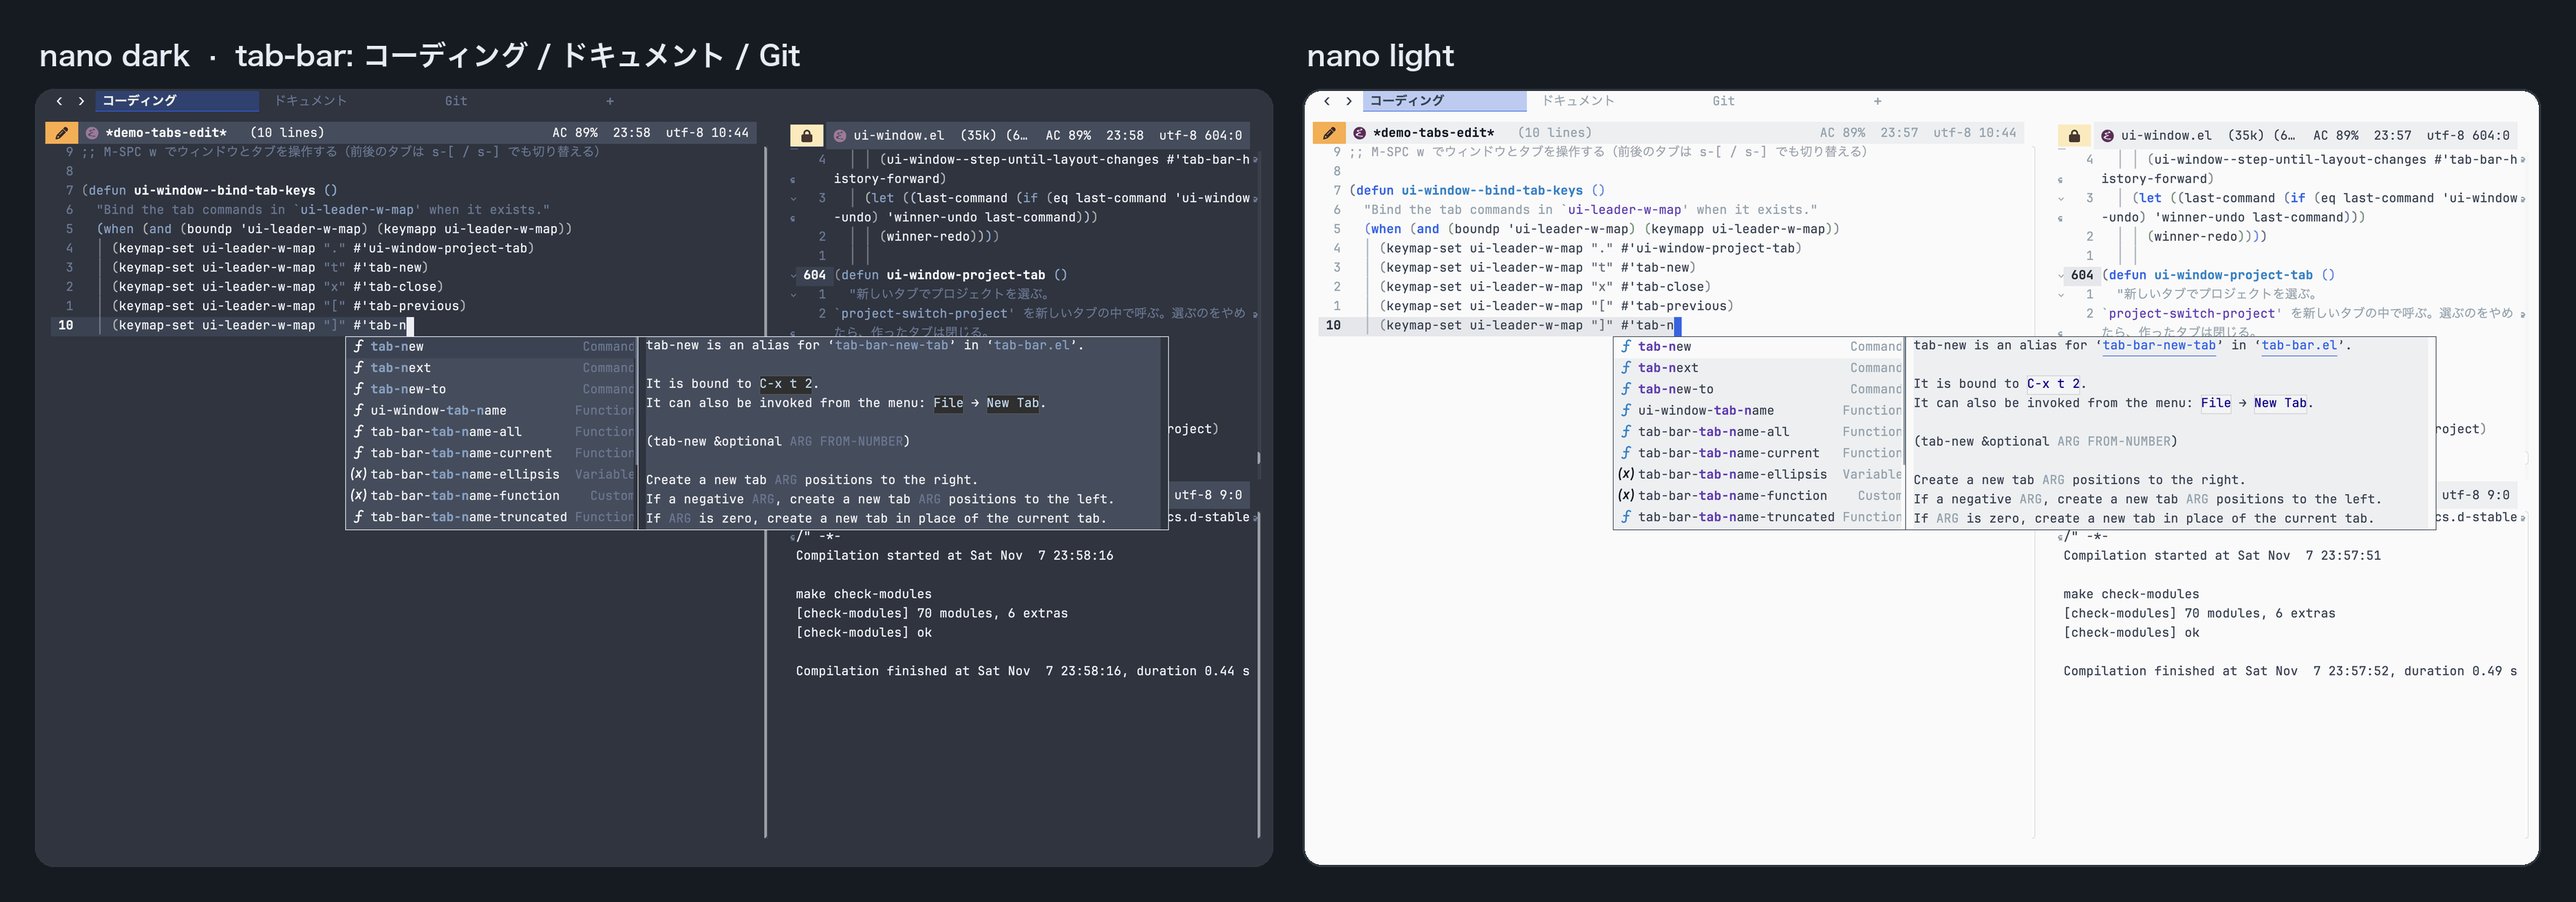
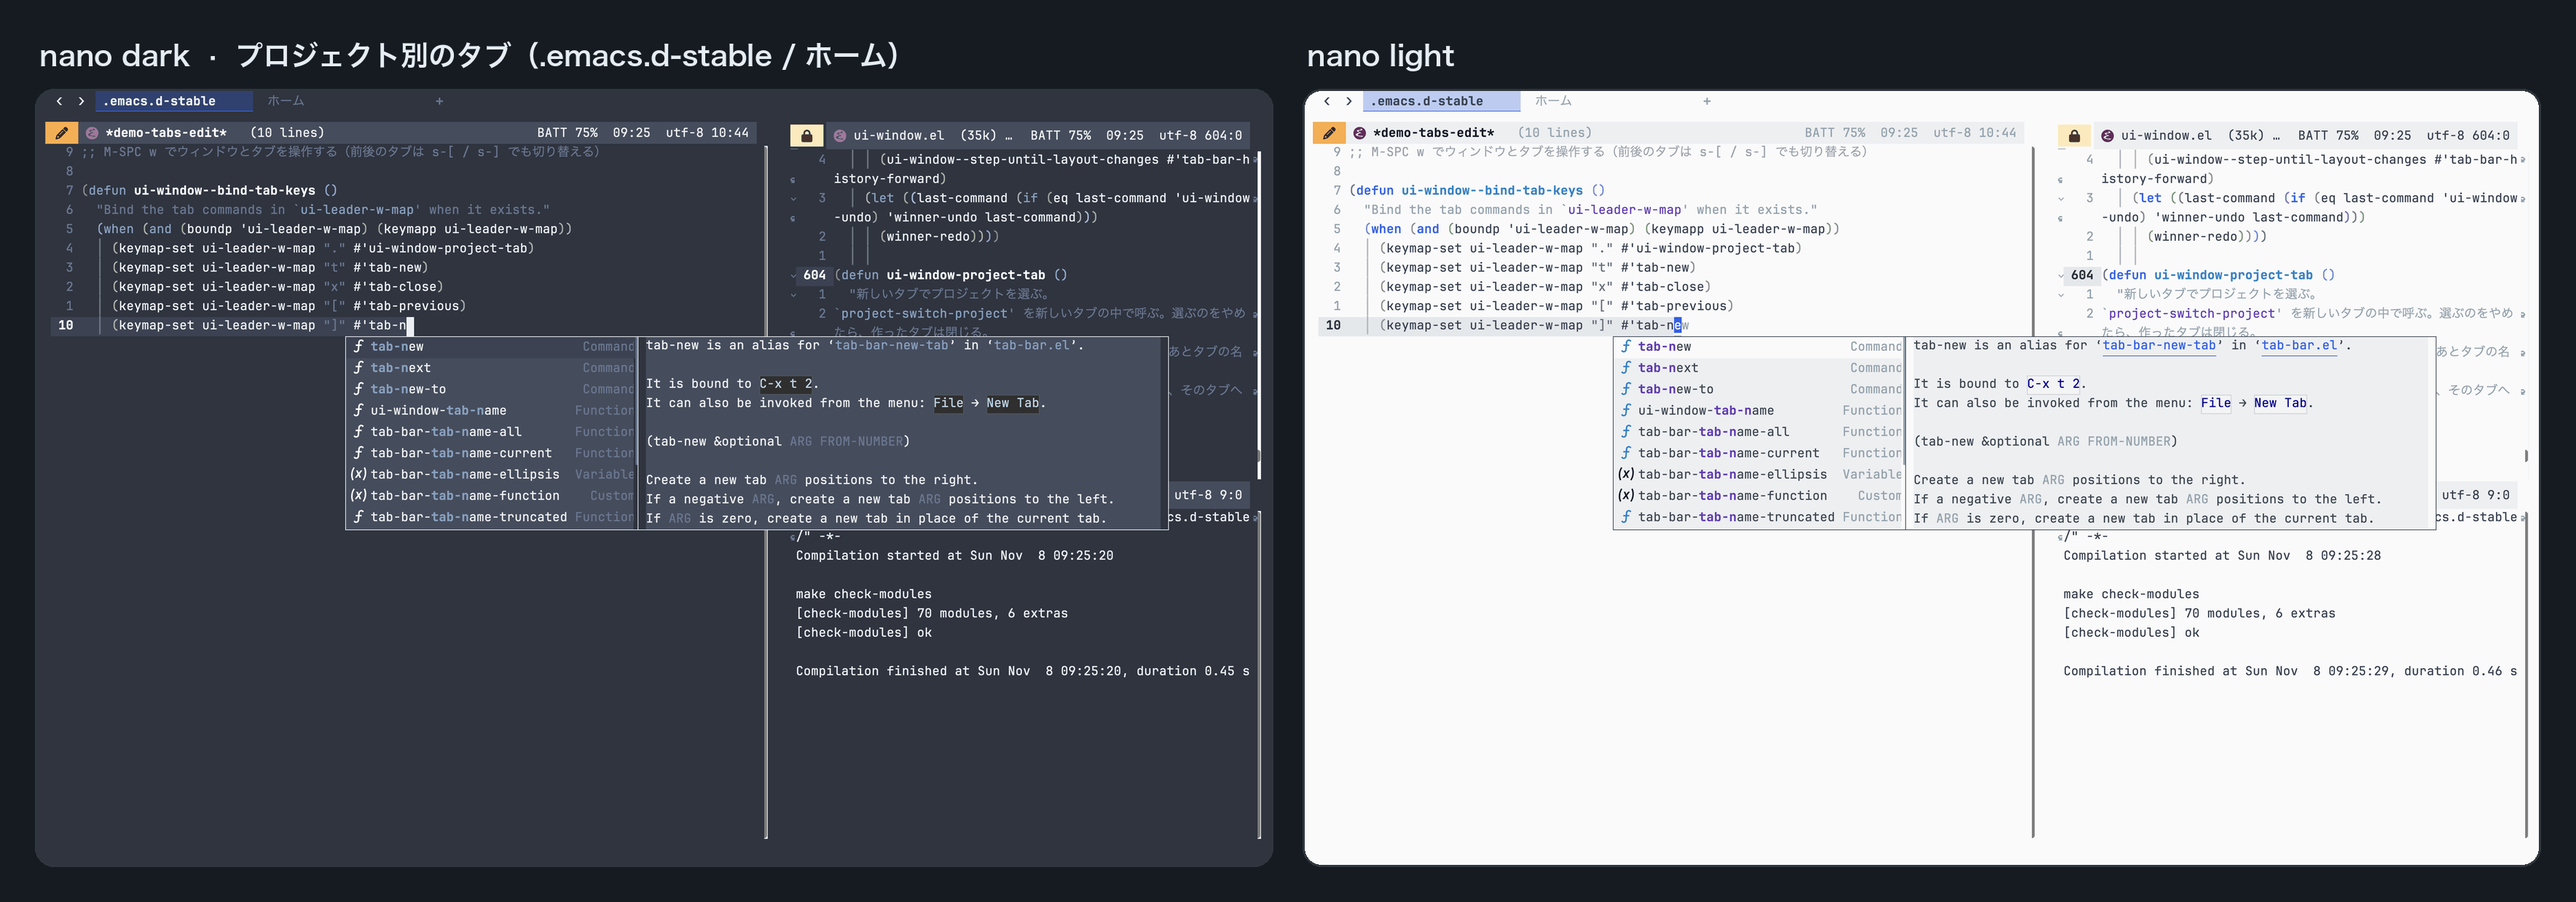
feat(ui-window): タブをモード別からプロジェクト別に変更
- org/ui.org: タブ名を project-current のルートのディレクトリ名に変更し、プロジェクトの外と *scratch* はホームへ振り分ける
- org/tools.org: スモークテストを、一時プロジェクトでのプロジェクト別の振り分けと復元の確認に変更
- README.org, org/personal.org: タブの説明をプロジェクト別の内容に更新
- demo.png, AGENTS.md: デモ画像を撮り直し、docstring の 80 桁制限に関する注意を追記

diff --git a/AGENTS.md b/AGENTS.md
@@ -377,6 +377,11 @@ early-init → core → ui → auth → completion → orgx → vcs → dev → 
    `with-eval-after-load` の内側には置かない。
 9. `defcustom` 変数を持つモジュールは、自身の `defgroup` を宣言する。
 10. 公開 `defun` にはすべて docstring を付ける。
+11. docstring の各行は 80 桁を超えない（全角は 2 桁と数える）。超えると `make check-bytecomp` が
+    `docstring wider than 80 characters` の警告で失敗する。長い説明は、文の切れ目で改行する。
+    README のブロックは 2 文字字下げなので、docstring の継続行は字下げを含めて数えず、tangle 後の
+    桁（最上位の式が桁 0）で 80 桁以内にする。`make lint` では見つからないので、docstring を書いたら
+    `make check-bytecomp` で確かめる。
 
 ### Daemon-mode pattern
 
